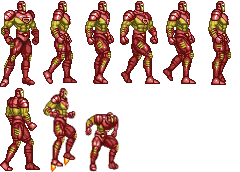
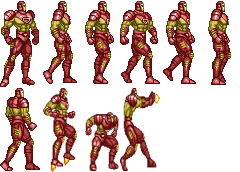
Added projectile shooting

Changed region(s): [[0.4958, 0.4942, 0.6708, 1.0]]

diff --git a/SuperSmashHeroes/main.py b/SuperSmashHeroes/main.py
@@ -16,6 +16,7 @@ class Player(pygame.sprite.Sprite):
         self.moving = False
         self.jumped = False
         self.fall = True
+        self.shoot = False
         self.sprites = []
         self.display = pygame.display.get_surface()
 
@@ -40,12 +41,17 @@ class Player(pygame.sprite.Sprite):
         self.x += self.speedx
         self.y += self.speedy
 
-        if self.moving == True:
+        if self.moving == True or self.shoot == True:
             self.delay += 1
         if self.speedy > 2:
             self.fall = True
 
-        if self.fall == True:
+        if self.shoot == True:
+            self.select = 9
+            if self.delay == 18:
+                self.delay = 0
+                self.shoot = False
+        elif self.fall == True:
             self.select = 8
             self.delay = 0
         elif self.jumped == True:
@@ -88,6 +94,9 @@ class Player(pygame.sprite.Sprite):
             self.jumped = True
             self.fall = False
             self.njump += 1
+
+    def atk1(self):
+        self.shoot = True
             
     def stop(self, event):
         if event == pygame.K_RIGHT and self.speedx != -4:
@@ -107,6 +116,26 @@ class Platform(pygame.sprite.Sprite):
     def draw(self, x, x1, y, info):
         for i in range(x, x1):
             self.display.blit(self.image, (32*i, info.current_h//4*y))
+
+class Projectile(pygame.sprite.Sprite):
+    def __init__(self, rect, image, direction):
+        pygame.sprite.Sprite.__init__(self)
+        self.rect = rect
+        self.image = image
+        self.speed = 10
+        self.direction = direction
+        self.display = pygame.display.get_surface()
+
+    def fire(self):
+        if self.direction == 1:
+            self.rect.x += self.speed
+        else:
+            self.rect.x -= self.speed
+
+        if self.rect.x < 1920 or self.rect.x > 0:
+            self.display.blit(self.image, (self.rect.x, self.rect.y))
+        else:
+            self.kill()
         
 def main():
     pygame.init()
@@ -134,7 +163,9 @@ def main():
                             pygame.image.load("tile.png").convert_alpha())
     platform_botr = Platform(info.current_w//12*7, info.current_h//4*3, info.current_w//12*3, 32,
                             pygame.image.load("tile.png").convert_alpha())
-    
+
+    proj = []
+    fire = False
     while True:
         event = pygame.event.poll()
 
@@ -150,7 +181,9 @@ def main():
             elif event.key == pygame.K_DOWN:
                 print("")
             elif event.key == pygame.K_j:
-                print("")
+                player.atk1()
+                proj.append(Projectile(pygame.Rect(player.x + 20, player.y + 10, 40, 20), pygame.image.load("pew.png").convert_alpha(), player.direction))
+                fire = True
             elif event.key == pygame.K_F1:
                 pygame.display.iconify()
         elif event.type == pygame.KEYUP:
@@ -199,6 +232,9 @@ def main():
             player.speedy += 0.35
         
         player.update()
+        if fire == True:
+            for one in proj:
+                one.fire()
         #screen divided into 60 32x32 squares in width divided in groups of 5,
         #first parameter is first square pos(x axis),
         #second is last square pos(x axis), height is divided into quarters of screen,
